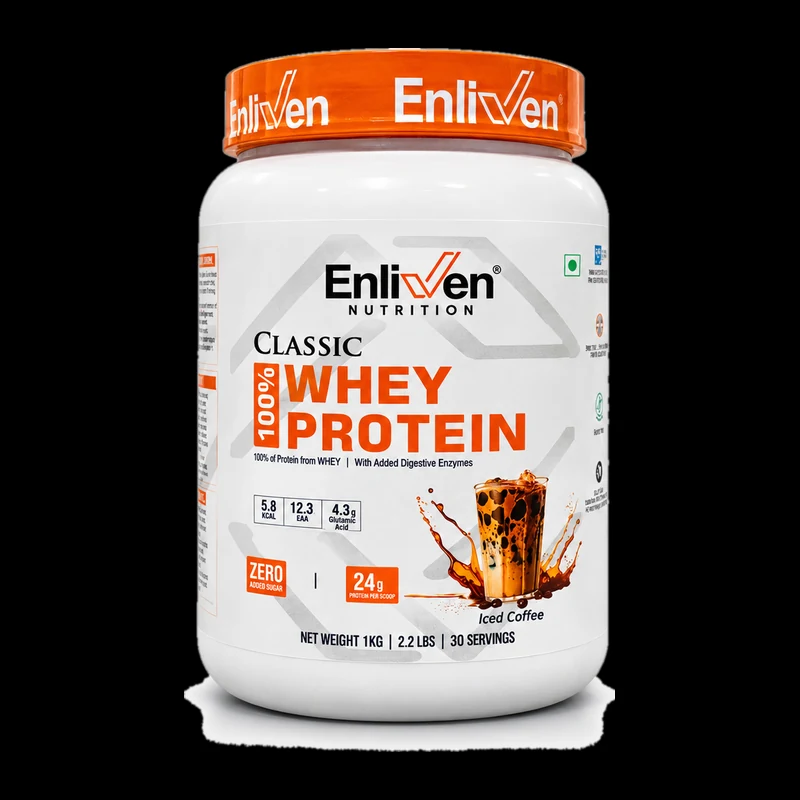
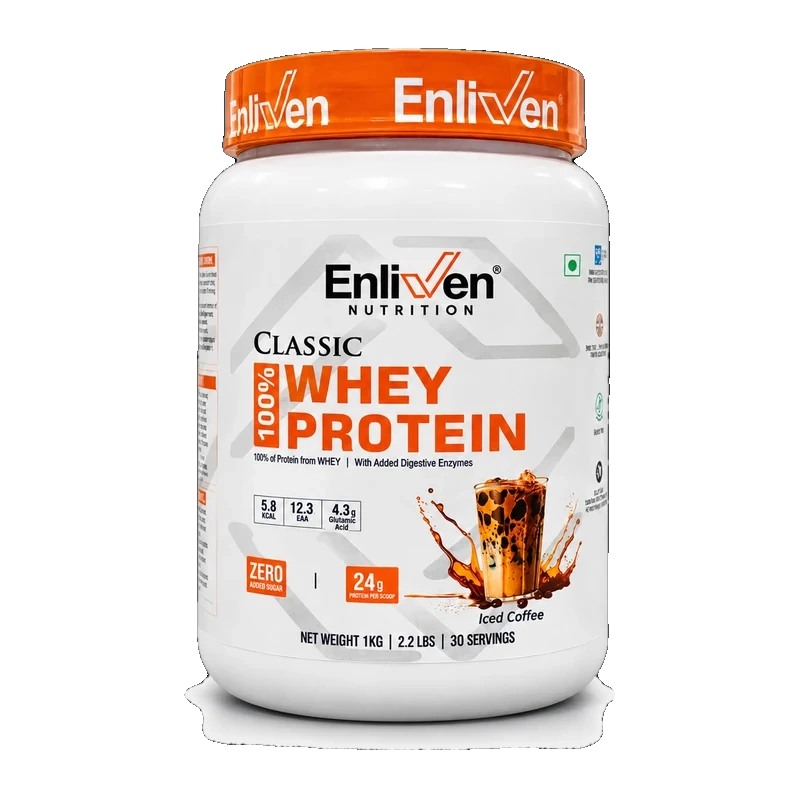
Enliven photo cut out like the rest, and a MADE IN USA badge
The Enliven pack shot was the only picture in the shop with a solid black
square behind it: every other photo is cut out, so the tub floats on the page.
It is now cut out too and sits on the page the same way.

The badge is drawn in the page rather than printed onto the photos, so it
stays sharp at any size, shows on the shop listing as well as the product
page, and is a one-word change per product: madeIn: "USA" in the catalogue.
It is on the seven BSN Syntha-6, N.O.-Xplode and Insane Labz Psychotic
listings and nothing else.

diff --git a/src/data/products.ts b/src/data/products.ts
@@ -17,17 +17,17 @@ export const PRODUCTS: Product[] = [
   { id: 2, image: "/images/apex-whey-blueberry-yoghurt.webp", name: "Apex Vitals 1 Whey - Blueberry Yoghurt", brand: "Apex Vitals", category: "Whey Protein", price: 5000, mrp: 8500, description: "Grass-fed whey protein with 27 g protein per 34 g scoop. Blueberry Yoghurt flavour, 2 kg.", flavours: ["Blueberry Yoghurt"], stock: 3 },
   { id: 3, image: "/images/gibbon-whey-latte.webp", name: "Gibbon Muscle Whey - Latte", brand: "Gibbon Nutrition", category: "Whey Protein", price: 5100, mrp: 9200, description: "Whey concentrate and isolate blend, 27 g protein per 36 g scoop. Latte flavour, 2 kg, 56 servings.", flavours: ["Latte"], stock: 3 },
   { id: 4, image: "/images/gibbon-whey-strawberry-cheesecake.webp", name: "Gibbon Muscle Whey - Strawberry Cheesecake", brand: "Gibbon Nutrition", category: "Whey Protein", price: 5100, mrp: 9200, description: "Whey concentrate and isolate blend, 25 g protein per serving. Strawberry Cheesecake flavour, 56 servings.", flavours: ["Strawberry Cheesecake"], stock: 3 },
-  { id: 5, image: "/images/syntha6-chocolate-milkshake.webp", name: "BSN Syntha-6 - Chocolate Milkshake", brand: "BSN", category: "Whey Protein", price: 7200, mrp: 8500, description: "Ultra premium protein matrix, 22 g protein per serving. Chocolate Milkshake flavour, 2.5 kg, 53 servings.", flavours: ["Chocolate Milkshake"], stock: 3 },
+  { id: 5, image: "/images/syntha6-chocolate-milkshake.webp", name: "BSN Syntha-6 - Chocolate Milkshake", brand: "BSN", category: "Whey Protein", price: 7200, mrp: 8500, description: "Ultra premium protein matrix, 22 g protein per serving. Chocolate Milkshake flavour, 2.5 kg, 53 servings.", flavours: ["Chocolate Milkshake"], stock: 3, madeIn: "USA" },
   { id: 6, image: "/images/healthfarm-maxwhey-malai-kulfi.webp", name: "HealthFarm MaxWhey - Malai Kulfi", brand: "HealthFarm", category: "Whey Protein", price: 2600, mrp: 3469, description: "Whey isolate and concentrate blend with added amino acids, 24 g protein per 36 g scoop. Malai Kulfi flavour.", flavours: ["Malai Kulfi"], stock: 3 },
   { id: 7, image: "/images/enliven-whey-iced-coffee.webp", name: "Enliven Classic 100% Whey - Iced Coffee", brand: "Enliven Nutrition", category: "Whey Protein", price: 2600, mrp: 3500, description: "100% whey protein concentrate with added digestive enzymes. 24 g protein and 128.54 kcal per 33 g scoop, zero added sugar. Iced Coffee flavour, 1 kg, 30 servings.", flavours: ["Iced Coffee"], stock: 3 },
   { id: 33, image: "/images/c4-cherry-limeade.webp", name: "Cellucor C4 Original - Cherry Limeade", brand: "Cellucor", category: "Pre-Workout", price: 3250, description: "The original explosive pre-workout. Cherry Limeade flavour, 390 g, 60 servings.", flavours: ["Cherry Limeade"], stock: 3 },
   { id: 34, image: "/images/c4-strawberry-margarita.webp", name: "Cellucor C4 Original - Strawberry Margarita", brand: "Cellucor", category: "Pre-Workout", price: 3250, description: "The original explosive pre-workout. Strawberry Margarita flavour, 390 g, 60 servings.", flavours: ["Strawberry Margarita"], stock: 3 },
-  { id: 35, image: "/images/noxplode-blue-raz.webp", name: "BSN N.O.-Xplode - Blue Raz", brand: "BSN", category: "Pre-Workout", price: 3350, description: "Legendary pre-workout with citrulline, beta alanine and creatine. Blue Raz flavour, 555 g, 30 servings.", flavours: ["Blue Raz"], stock: 3 },
-  { id: 36, image: "/images/noxplode-fruit-punch.webp", name: "BSN N.O.-Xplode - Fruit Punch", brand: "BSN", category: "Pre-Workout", price: 3350, description: "Legendary pre-workout with citrulline, beta alanine and creatine. Fruit Punch flavour, 555 g, 30 servings.", flavours: ["Fruit Punch"], stock: 3 },
-  { id: 37, image: "/images/noxplode-grape.webp", name: "BSN N.O.-Xplode - Grape", brand: "BSN", category: "Pre-Workout", price: 3350, description: "Legendary pre-workout with citrulline, beta alanine and creatine. Grape flavour, 555 g, 30 servings.", flavours: ["Grape"], stock: 3 },
-  { id: 38, image: "/images/psychotic-grape.webp", name: "Insane Labz Psychotic - Grape", brand: "Insane Labz", category: "Pre-Workout", price: 2400, mrp: 5999, description: "High-stimulant pre-workout powerhouse. Grape flavour, 219 g, 35 servings.", flavours: ["Grape"], stock: 3 },
-  { id: 39, image: "/images/psychotic-watermelon.webp", name: "Insane Labz Psychotic - Watermelon", brand: "Insane Labz", category: "Pre-Workout", price: 2400, mrp: 5999, description: "High-stimulant pre-workout powerhouse. Watermelon flavour, 214 g, 35 servings.", flavours: ["Watermelon"], stock: 3 },
-  { id: 40, image: "/images/psychotic-blue-raspberry.webp", name: "Insane Labz Psychotic - Blue Raspberry", brand: "Insane Labz", category: "Pre-Workout", price: 2400, mrp: 5999, description: "High-stimulant pre-workout powerhouse. Blue Raspberry flavour, 220 g, 35 servings.", flavours: ["Blue Raspberry"], stock: 3 },
+  { id: 35, image: "/images/noxplode-blue-raz.webp", name: "BSN N.O.-Xplode - Blue Raz", brand: "BSN", category: "Pre-Workout", price: 3350, description: "Legendary pre-workout with citrulline, beta alanine and creatine. Blue Raz flavour, 555 g, 30 servings.", flavours: ["Blue Raz"], stock: 3, madeIn: "USA" },
+  { id: 36, image: "/images/noxplode-fruit-punch.webp", name: "BSN N.O.-Xplode - Fruit Punch", brand: "BSN", category: "Pre-Workout", price: 3350, description: "Legendary pre-workout with citrulline, beta alanine and creatine. Fruit Punch flavour, 555 g, 30 servings.", flavours: ["Fruit Punch"], stock: 3, madeIn: "USA" },
+  { id: 37, image: "/images/noxplode-grape.webp", name: "BSN N.O.-Xplode - Grape", brand: "BSN", category: "Pre-Workout", price: 3350, description: "Legendary pre-workout with citrulline, beta alanine and creatine. Grape flavour, 555 g, 30 servings.", flavours: ["Grape"], stock: 3, madeIn: "USA" },
+  { id: 38, image: "/images/psychotic-grape.webp", name: "Insane Labz Psychotic - Grape", brand: "Insane Labz", category: "Pre-Workout", price: 2400, mrp: 5999, description: "High-stimulant pre-workout powerhouse. Grape flavour, 219 g, 35 servings.", flavours: ["Grape"], stock: 3, madeIn: "USA" },
+  { id: 39, image: "/images/psychotic-watermelon.webp", name: "Insane Labz Psychotic - Watermelon", brand: "Insane Labz", category: "Pre-Workout", price: 2400, mrp: 5999, description: "High-stimulant pre-workout powerhouse. Watermelon flavour, 214 g, 35 servings.", flavours: ["Watermelon"], stock: 3, madeIn: "USA" },
+  { id: 40, image: "/images/psychotic-blue-raspberry.webp", name: "Insane Labz Psychotic - Blue Raspberry", brand: "Insane Labz", category: "Pre-Workout", price: 2400, mrp: 5999, description: "High-stimulant pre-workout powerhouse. Blue Raspberry flavour, 220 g, 35 servings.", flavours: ["Blue Raspberry"], stock: 3, madeIn: "USA" },
   { id: 41, image: "/images/everlast-devil-tropical.webp", name: "Hypper Nation Everlast - Devil Tropical", brand: "Hypper Nation", category: "Pre-Workout", price: 2300, mrp: 3999, description: "High-stim ripped formulation pre-workout, 300 mg caffeine per 5 g scoop. Devil Tropical flavour, 500 g, 100 servings.", flavours: ["Devil Tropical"], stock: 3 },
   { id: 42, image: "/images/everlast-devil-melon.webp", name: "Hypper Nation Everlast - Devil Melon", brand: "Hypper Nation", category: "Pre-Workout", price: 2300, mrp: 3999, description: "High-stim ripped formulation pre-workout, 300 mg caffeine per 5 g scoop. Devil Melon flavour, 500 g, 100 servings.", flavours: ["Devil Melon"], stock: 3 },
   { id: 43, image: "/images/hypper-eaa-bcaa-ice-blue-quantum.webp", name: "Hypper Nation EAA+BCAA Recovery - Ice Blue Quantum", brand: "Hypper Nation", category: "BCAA & EAA", price: 2200, description: "EAA and BCAA recovery formula with electrolytes and glutamine. Ice Blue Quantum flavour, 400 g, 40 servings.", flavours: ["Ice Blue Quantum"], stock: 3 },

diff --git a/src/components/product/MadeInUsa.tsx b/src/components/product/MadeInUsa.tsx
@@ -1,0 +1,62 @@
+/**
+ * The MADE IN USA mark.
+ *
+ * It is drawn rather than photographed, so it stays sharp at any size and on
+ * any screen, and it is driven by `madeIn: "USA"` in the catalogue — so adding
+ * it to another product, or taking it off one, is a one-word change.
+ *
+ * `overlay` is the version that sits on top of a pack photo; the plain one sits
+ * in the page next to the product name.
+ */
+
+const STRIPES = [0, 1, 2, 3, 4, 5, 6, 7, 8, 9, 10, 11, 12];
+const STAR_ROWS = [0, 1, 2, 3, 4];
+
+function Flag({ className = "" }: { className?: string }) {
+  return (
+    <svg
+      viewBox="0 0 38 20"
+      aria-hidden="true"
+      className={`shrink-0 rounded-[1.5px] ${className}`}
+    >
+      {/* 13 stripes, red on white */}
+      <rect width="38" height="20" fill="#ffffff" />
+      {STRIPES.filter((i) => i % 2 === 0).map((i) => (
+        <rect key={i} y={(i * 20) / 13} width="38" height={20 / 13} fill="#b22234" />
+      ))}
+      {/* the canton */}
+      <rect width="15.2" height={(7 * 20) / 13} fill="#3c3b6e" />
+      {STAR_ROWS.map((r) =>
+        [0, 1, 2, 3].map((c) => (
+          <circle
+            key={`${r}-${c}`}
+            cx={2.1 + c * 3.7 + (r % 2 ? 1.85 : 0)}
+            cy={1.5 + r * 2.1}
+            r="0.62"
+            fill="#ffffff"
+          />
+        ))
+      )}
+    </svg>
+  );
+}
+
+export default function MadeInUsa({ overlay = false }: { overlay?: boolean }) {
+  // The pack photos sit on black today and may sit on white tomorrow, so the
+  // badge on the photo is a white pill with its own hairline: it reads either way.
+  const skin = overlay
+    ? "bg-white/95 text-foreground ring-1 ring-black/15 shadow-sm backdrop-blur-sm"
+    : "bg-foreground text-white ring-1 ring-black/10";
+
+  return (
+    <span
+      title="Made in the USA"
+      className={`inline-flex items-center gap-1.5 rounded-full px-2.5 py-1 ${skin}`}
+    >
+      <Flag className="h-3 w-[22px]" />
+      <span className="font-display text-[10px] font-bold uppercase leading-none tracking-[0.12em]">
+        Made in USA
+      </span>
+    </span>
+  );
+}

diff --git a/src/app/products/[id]/page.tsx b/src/app/products/[id]/page.tsx
@@ -7,6 +7,7 @@ import { getProducts, findProduct } from "@/lib/catalog";
 import BarbellLoader from "@/components/fx/BarbellLoader";
 import ProductPurchase from "@/components/product/ProductPurchase";
 import ProductGallery from "@/components/product/ProductGallery";
+import MadeInUsa from "@/components/product/MadeInUsa";
 import { nutritionImageFor } from "@/data/nutrition";
 
 export async function generateStaticParams() {
@@ -50,7 +51,10 @@ async function ProductDetails({ params }: { params: Promise<{ id: string }> }) {
         <h1 className="mt-2 font-display text-4xl font-bold uppercase">
           {product.name}
         </h1>
-        <p className="mt-1 text-muted">by {product.brand}</p>
+        <p className="mt-1 flex flex-wrap items-center gap-x-3 gap-y-2 text-muted">
+          <span>by {product.brand}</span>
+          {product.madeIn === "USA" && <MadeInUsa />}
+        </p>
         <p className="mt-6 text-muted">{product.description}</p>
         <ProductPurchase product={product} />
         <p className="mt-4 text-sm text-muted">

diff --git a/src/components/product/ProductCard.tsx b/src/components/product/ProductCard.tsx
@@ -5,6 +5,7 @@ import Tilt from "@/components/fx/Tilt";
 import Spotlight from "@/components/fx/Spotlight";
 import { LOW_STOCK_LIMIT } from "@/config/features";
 import AddToCartButton from "./AddToCartButton";
+import MadeInUsa from "./MadeInUsa";
 import PriceTag from "./PriceTag";
 import ProductImage from "./ProductImage";
 
@@ -30,6 +31,12 @@ export default function ProductCard({ product }: { product: Product }) {
           {!inStock && (
             <span className="absolute left-3 top-3 rounded-full bg-neutral-800 px-3 py-1 text-xs font-semibold uppercase text-white">
               Out of stock
+            </span>
+          )}
+          {product.madeIn === "USA" && (
+            // top right, because the stock badges own the top left
+            <span className="absolute right-3 top-3">
+              <MadeInUsa overlay />
             </span>
           )}
         </Link>

diff --git a/src/types/index.ts b/src/types/index.ts
@@ -18,6 +18,7 @@ export type Product = {
   sizes?: ProductSize[]; // e.g. [{ label: "1kg", price: 1999 }, { label: "2kg", price: 3499 }]
   inStock?: boolean; // set to false to show "Out of stock"
   stock?: number; // units left (comes from the Google Sheet). Blank = not tracked
+  madeIn?: "USA"; // shows a MADE IN USA badge. Only set it where the pack says so.
   awaitingPhotos?: boolean; // sold now, pack photo and nutrition label still to come
 };
 
